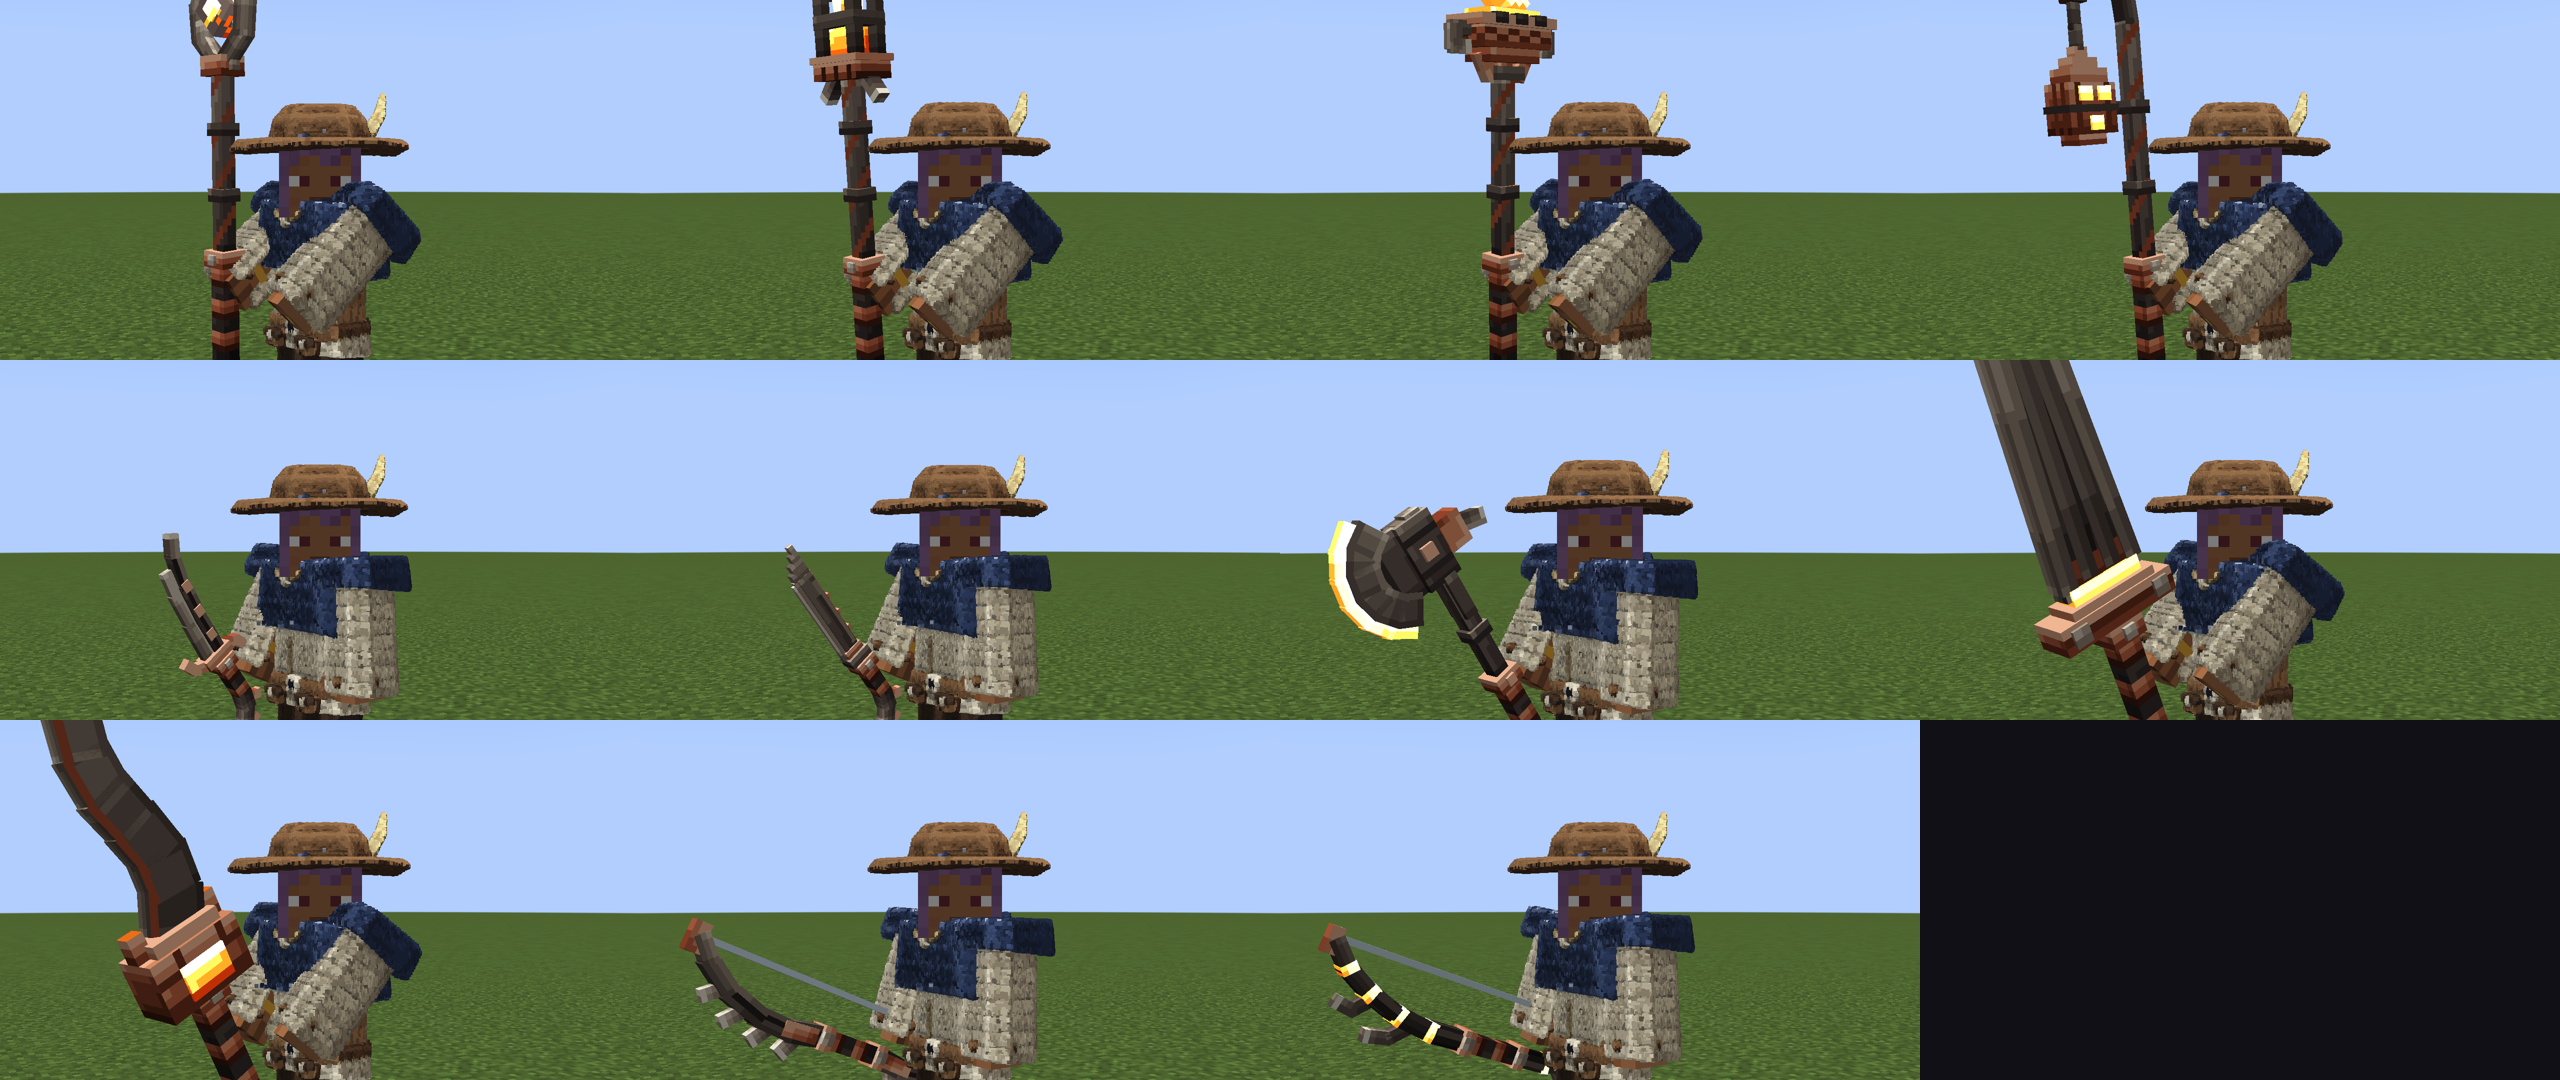
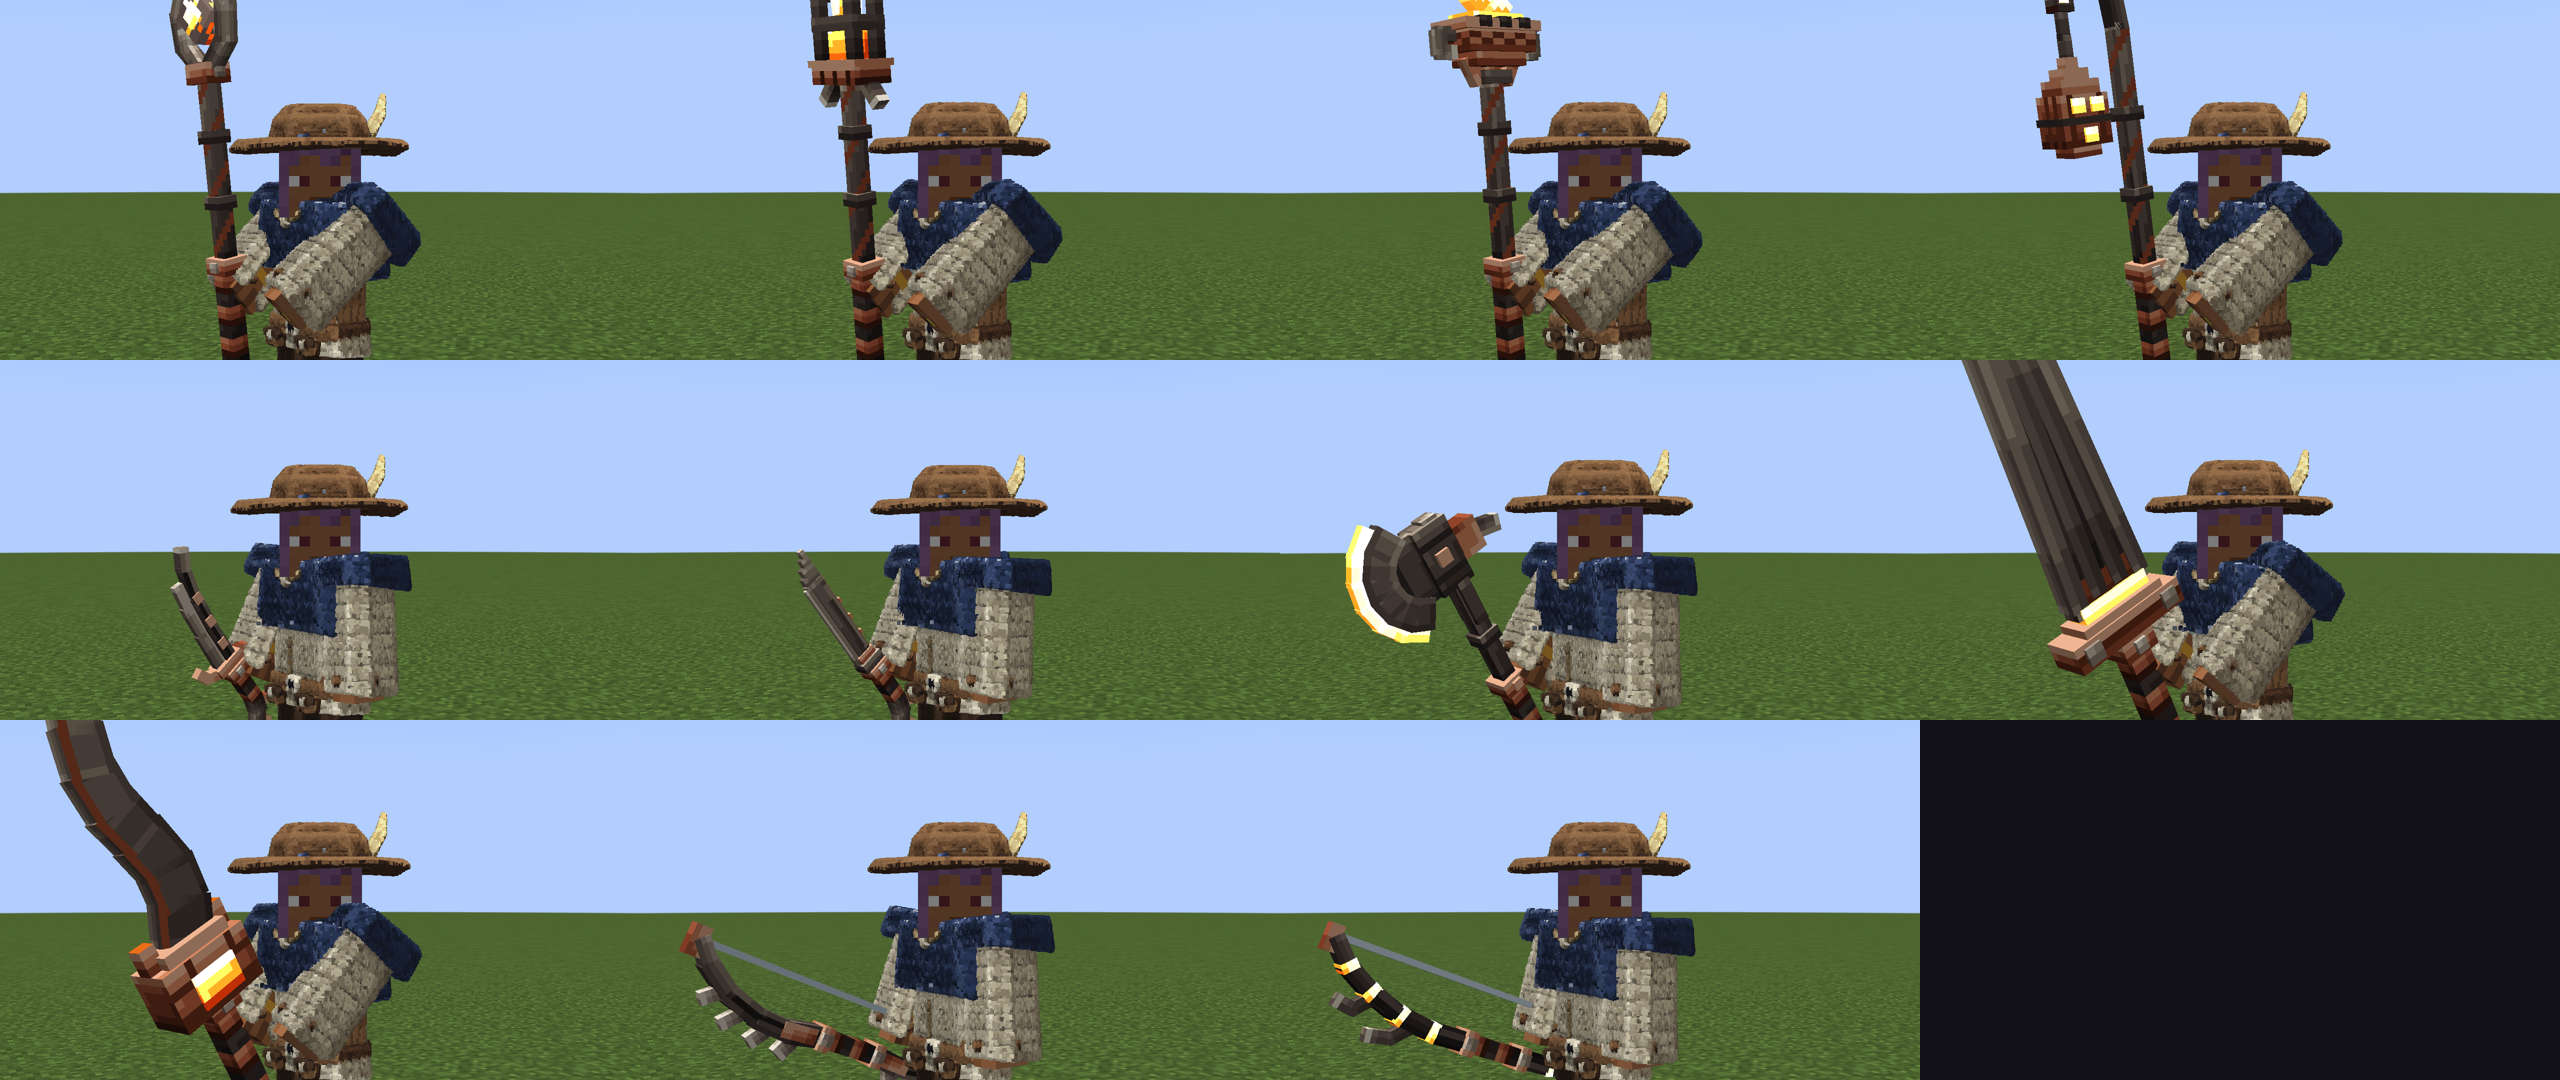
Raised weapon holds: third-person height 1.5 lower so the grip sits in the hand

diff --git a/tools/gen/pixel/look_holds.py b/tools/gen/pixel/look_holds.py
@@ -6,6 +6,8 @@
 
 決まり（2026-11-18 の祠の 6 品で決めた。ユーザーが見て OK を出した）:
 - 振る武器（剣・大剣・短剣・牙・爪・鎚・斧・鎌）: 三人称は前で上へ起こして構える。z を 55 → 20（左手 -35 → -70）
+- 振る武器の三人称の高さは、借りた値から 1.5 下げる（4.0 → 2.5、4.2 → 2.7、4.5 → 3.0）。
+  2026-11-19「手から浮いてない？」: 上へ起こすと握りが拳の先へ出ていた。短剣・剣・大剣で 1.5 下げると握りが手に入るのを撮って確かめた
 - 杖・鈴杖・弓・槍・長柄: 今の持ち方のまま（三人称の位置と弓の倒し方は WeaponItemRenderer の look a の枝で足す）
 
   python -I tools/gen/pixel/look_holds.py [--check]
@@ -21,6 +23,8 @@ MANIFEST = ROOT / "tools/models/x32/manifest.json"
 RAISED = {"sword", "greatsword", "dagger", "fang", "claw", "hammer", "maul", "mace", "axe", "scythe"}
 TP_R = (0, -90, 55)      # 振る武器の、借りた持ち方の三人称（右手）
 RAISED_R, RAISED_L = [0, -90, 20], [0, -90, -70]
+BORROWED_Y = (4.0, 4.2, 4.5)   # 借りた持ち方の三人称の高さ
+DROP_Y = 1.5
 
 
 def main():
@@ -34,7 +38,14 @@ def main():
         data = json.loads(p.read_text(encoding="utf-8"))
         d = data["base"]["display"]
         rot = tuple(round(v) for v in d["thirdperson_righthand"]["rotation"])
+        y = d["thirdperson_righthand"]["translation"][1]
         if rot == tuple(RAISED_R):
+            if round(y, 2) in BORROWED_Y:
+                changed.append(i)
+                if not check:
+                    for hand in ("thirdperson_righthand", "thirdperson_lefthand"):
+                        d[hand]["translation"][1] = round(d[hand]["translation"][1] - DROP_Y, 2)
+                    p.write_text(json.dumps(data, ensure_ascii=False, separators=(",", ":")), encoding="utf-8")
             continue
         if rot != TP_R:
             print(f"{i}: 三人称の回転が想定外 {rot}（手で確かめる）")
@@ -43,6 +54,8 @@ def main():
         if not check:
             d["thirdperson_righthand"]["rotation"] = list(RAISED_R)
             d["thirdperson_lefthand"]["rotation"] = list(RAISED_L)
+            for hand in ("thirdperson_righthand", "thirdperson_lefthand"):
+                d[hand]["translation"][1] = round(d[hand]["translation"][1] - DROP_Y, 2)
             p.write_text(json.dumps(data, ensure_ascii=False, separators=(",", ":")), encoding="utf-8")
     print(("differs: " if check else "updated: ") + ", ".join(changed) if changed else "ok")
     if check and changed:

diff --git a/docs/HANDOFF.md b/docs/HANDOFF.md
@@ -105,7 +105,8 @@
         - 柳刃: 細く長い真っ直ぐな片刃（25 箱）。刃元に焼き物のはばき、背に焼き物の細い筋と刻み 3 つ、刃の縁に研ぎの明るい帯、樋、先は背へ 4 段で細る。
         - 箱は設計（ember_bold.py）をスクリプトで Blockbench に読み込んだ。Blockbench で目で直したのは背の筋だけ（厚すぎて背が全部焼き物に見えたので細くした。設計に写した）。
         - 筆（Blockbench）: 1 回目 = 樋の黒を中間の暗さに（穴に見えたため）、2 回目 = 刃元の切り欠きを中間色に・先の段に明るい縁、3 回目 = 刃の平の背側に光の線、4 回目 = 先の段の明るい縁がゲームで櫛の歯に見えたので刃の色へ戻した。
-        - 見比べ: docs/review/ash_knife_b.png。持ち方の「浮き」は鯨の短剣・大剣と同じ位置と確かめた（docs/review/ember_hold_vs_whale.png）。まだユーザーの返事待ち。
+        - 見比べ: docs/review/ash_knife_b.png。ユーザー OK（「これでいい」）。
+      - 手から浮く件（2026-11-19、ユーザー: 「手から浮く件をなおして」）: 振る武器（上へ起こす持ち方）は握りが拳の先へ出ていた（鯨・祠も同じ）。三人称の高さを 1.5 下げた（4.0 → 2.5 など）。短剣・剣・大剣で高さを 4 通り撮って決めた。`tools/gen/pixel/look_holds.py` の決まりに入れたので、取り込みのあとに流せば保たれる（22 品が変わった）。見比べ: docs/review/hold_drop.png。
     - 読み直しのこつ（箱を置き直さない）: `tools/models/x32/look5/bb2geo.py <取り込んだ.bbmodel> <出力先>` で geo.json と絵を出す（骨は g_root 一つ、上下の面の UV は向きを合わせてある）→ create_project(free) → from_geo_json → create_texture（絵）→ list_outline で g_root の uuid → apply_texture(g_root, all) → 筆 → export → `tools/models/x32/look5/ungeo.py <書き出し> <元の.bbmodel>`（箱の名前を UV で照合して戻す。_glow も戻る）→ install.py / install_bow.py。
       - paint_with_brush の connect_strokes=true は端の 2 点しか塗らないことがある。線は 1 画素ずつ座標を並べて connect_strokes=false で塗る。
 - 次: 月 → 神器 → 塔 → 深淵 → 野 → その他。シリーズごとにコミット（main には入れない）。
